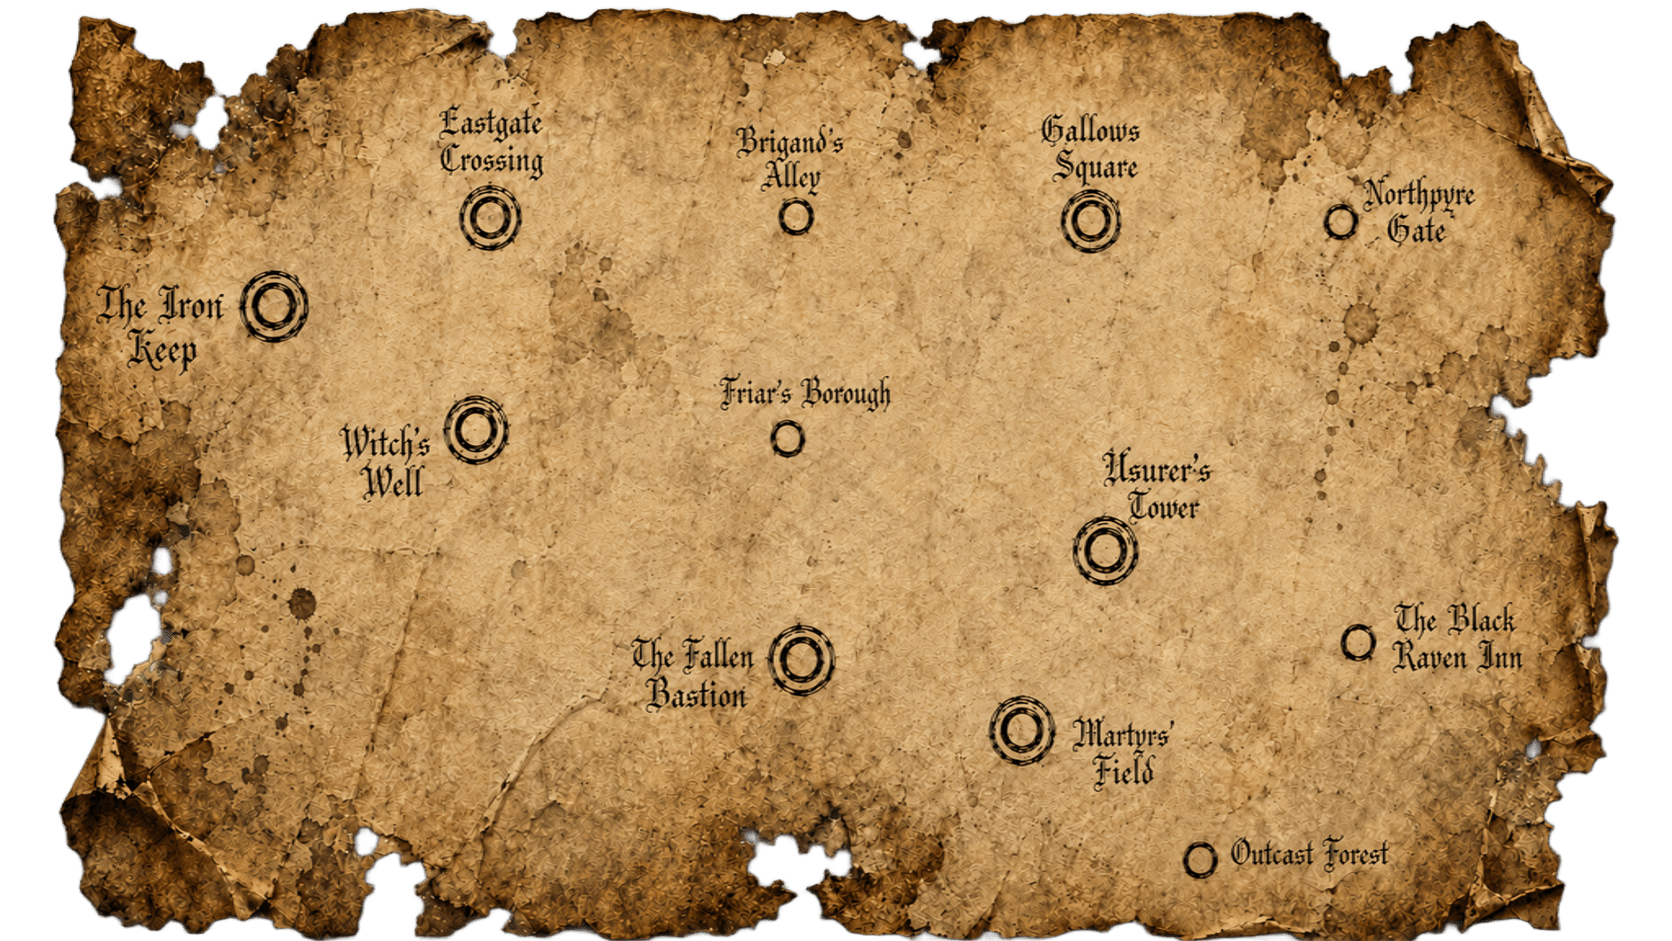
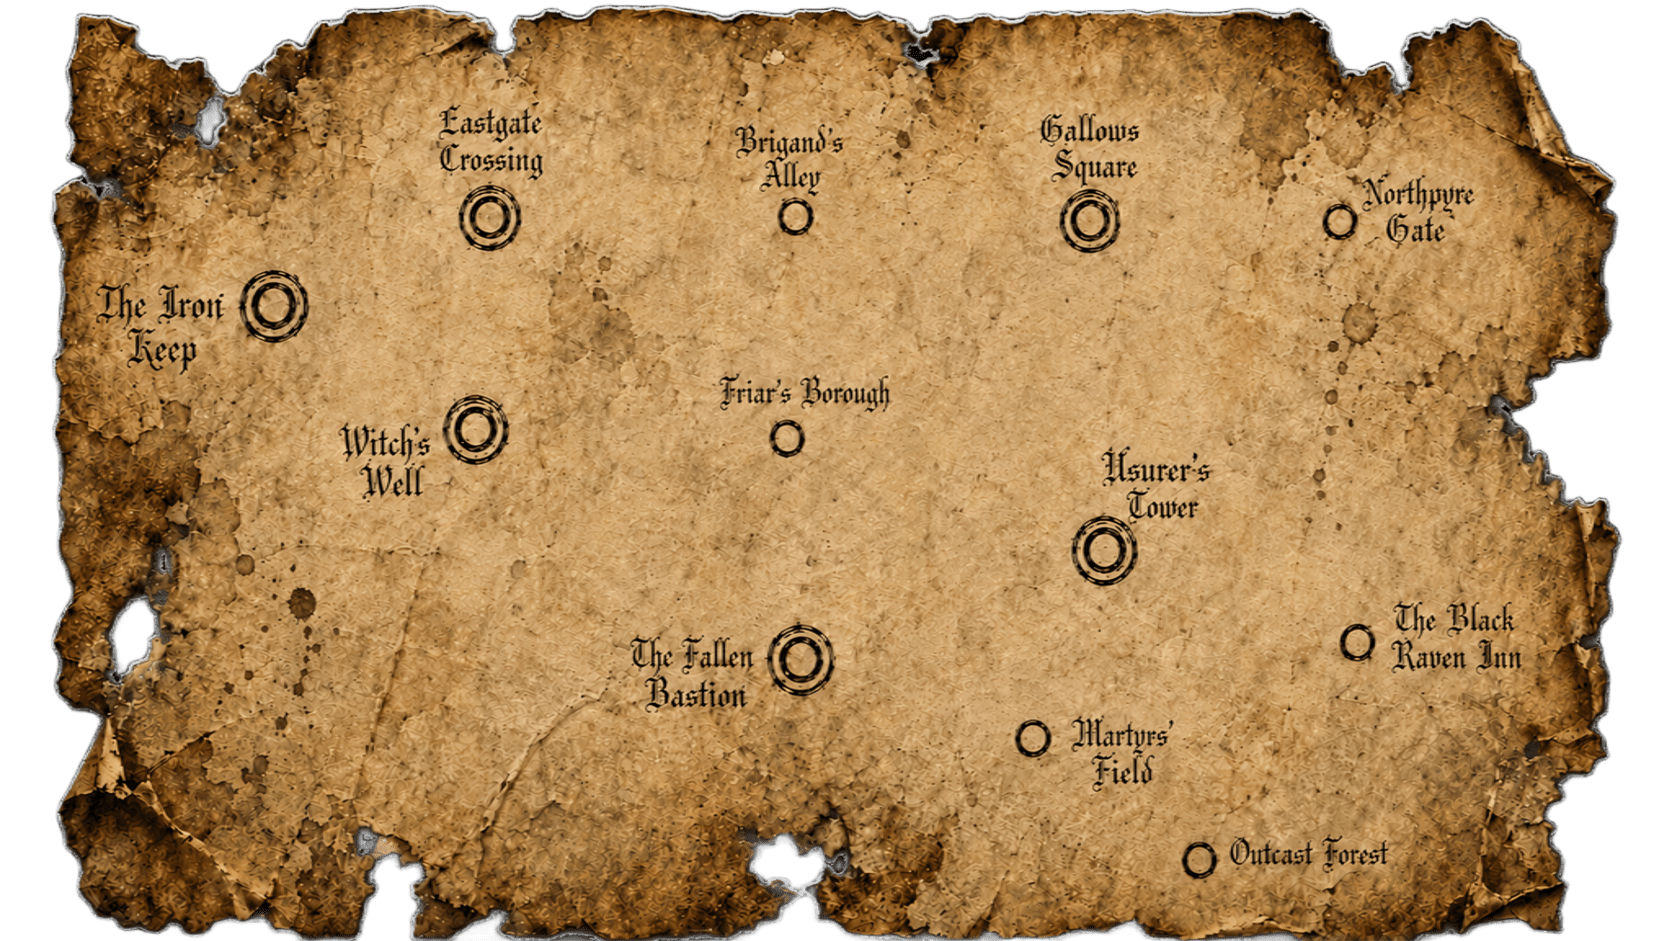
fix: respected new requirement about the number of interchanges

diff --git a/server/init_db.js b/server/init_db.js
@@ -81,7 +81,7 @@ async function initDb() {
         "Friar's Borough",     // 6  - Blue only
         "Usurer's Tower",      // 7  - Blue + Yellow interchange
         "The Fallen Bastion",  // 8  - Green + Yellow interchange
-        "Martyrs' Field",      // 9  - Green + Yellow interchange
+        "Martyrs' Field",      // 9  - Green only
         "Northpyre Gate",      // 10 - Red only
         "The Black Raven Inn", // 11 - Blue only
         "Outcast Forest",      // 12 - Green only
@@ -102,8 +102,8 @@ async function initDb() {
         [2, 1, 0], [2, 5, 1], [2, 6, 2], [2, 7, 3], [2, 11, 4],
         // Green Line:  Eastgate Crossing → Witch's Well → The Fallen Bastion → Martyrs' Field → Outcast Forest
         [3, 2, 0], [3, 5, 1], [3, 8, 2], [3, 9, 3], [3, 12, 4],
-        // Yellow Line: Gallows Square → The Fallen Bastion → Usurer's Tower → Martyrs' Field
-        [4, 4, 0], [4, 8, 1], [4, 7, 2], [4, 9, 3],
+        // Yellow Line: Gallows Square → The Fallen Bastion → Usurer's Tower
+        [4, 4, 0], [4, 8, 1], [4, 7, 2],
     ];
     for (const [lineId, stationId, position] of lineStations)
         await run(`INSERT INTO line_station(line_id, station_id, position) VALUES (?,?,?)`,